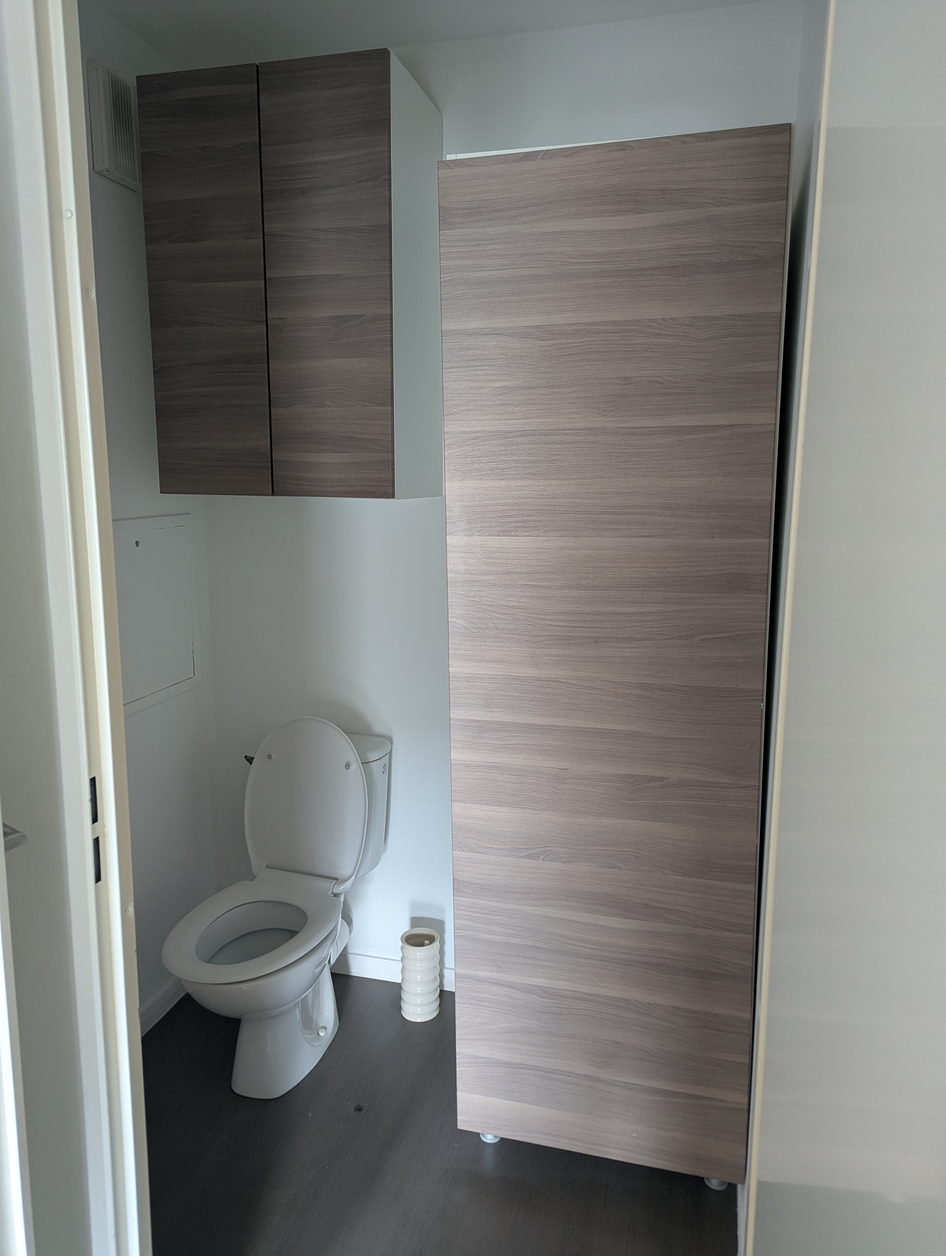
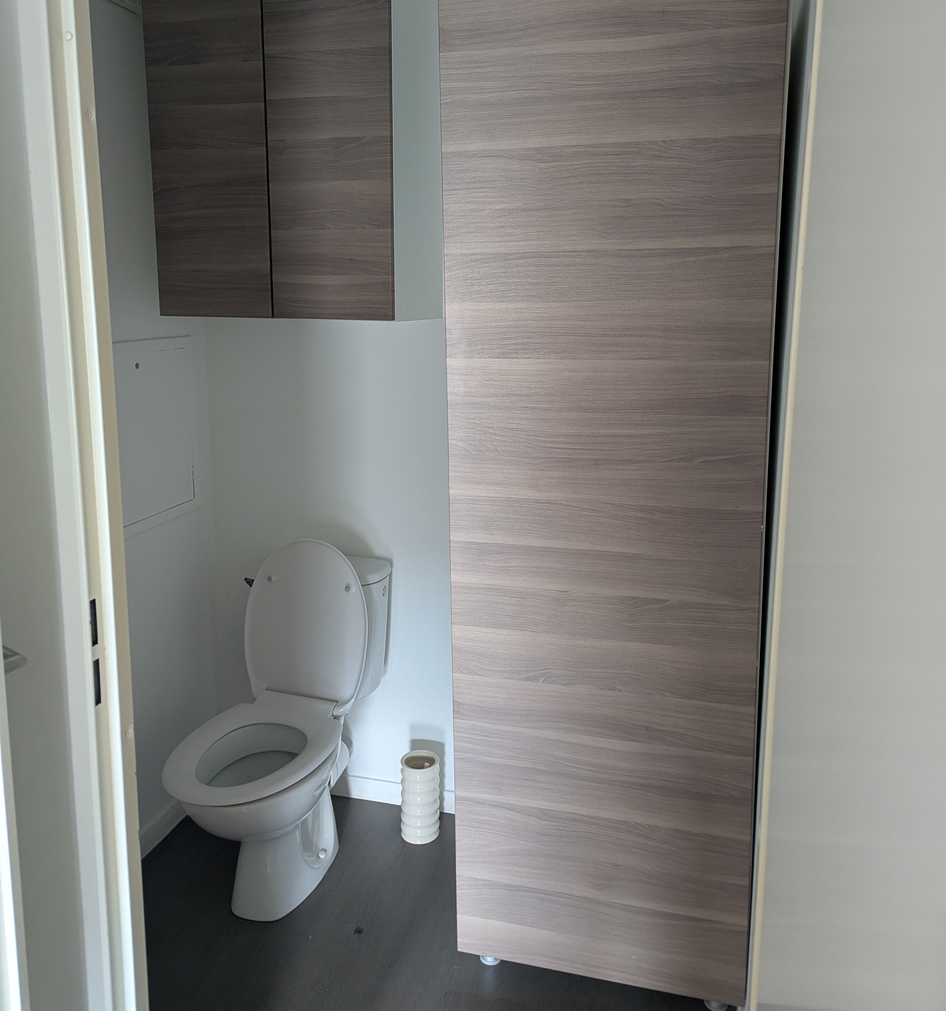
corrected typo

diff --git a/js/app.js b/js/app.js
@@ -64,7 +64,7 @@ const apartmentImages = [
         title: "Votre ascenseur"
     },
     {
-        src: "assets/images/ascenseur1.jpeg",
+        src: "assets/images/ascenseur2.jpeg",
         category: "Batiment",
         title: "Votre ascenseur"
     },
